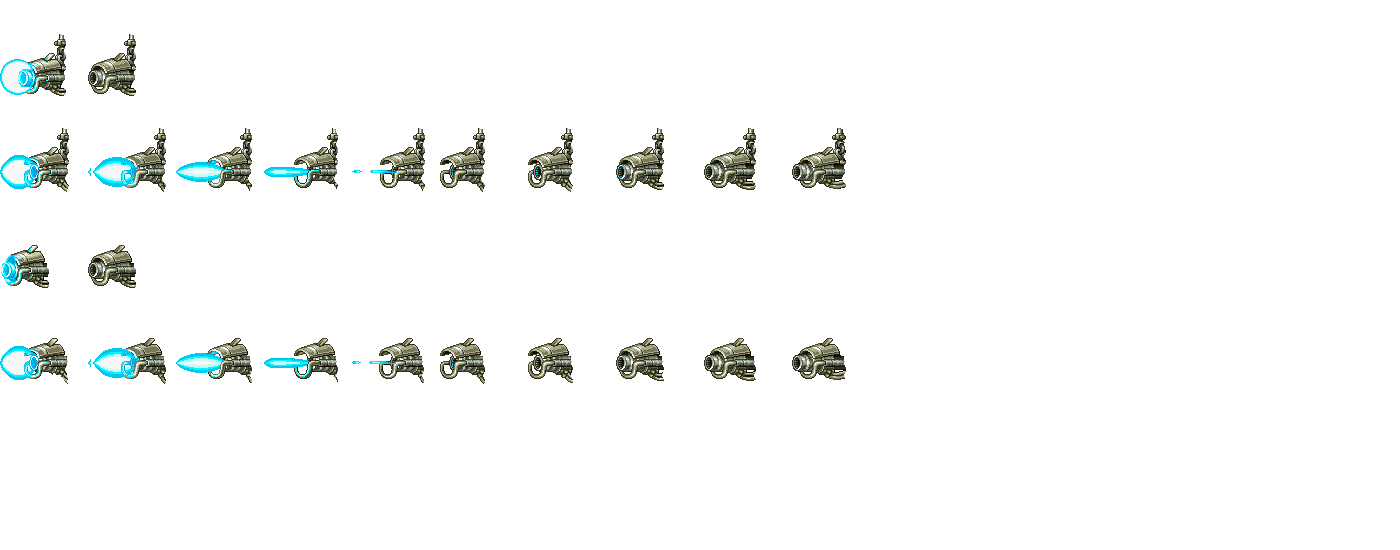
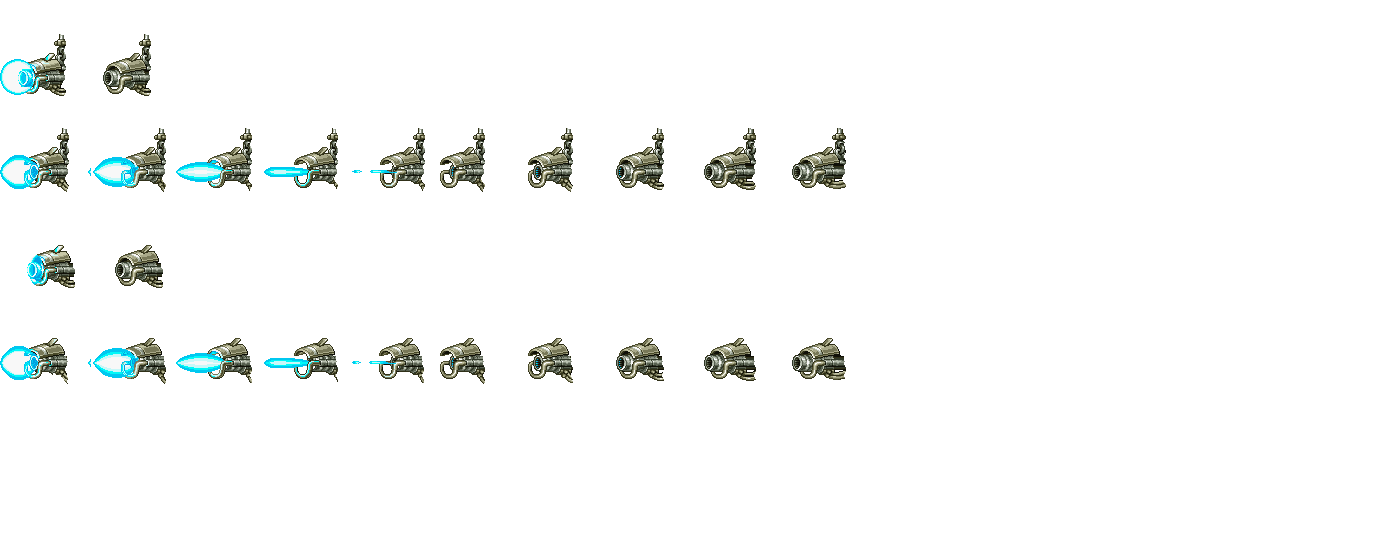
e

Changed region(s): [[0.0, 0.4327, 0.1229, 0.5255], [0.0614, 0.0618, 0.1229, 0.1855]]

diff --git a/Solution/Project1/Boss.cpp b/Solution/Project1/Boss.cpp
@@ -16,6 +16,11 @@ void Boss::Init()
     UnloadImage(imgFlash);
     SetTextureFilter(flashSheet, TEXTURE_FILTER_POINT);
 
+    Image imgLaser = LoadImage("Graphics/boss/laser88x96.png");
+    laserSheet = LoadTextureFromImage(imgLaser);
+    UnloadImage(imgLaser);
+    SetTextureFilter(laserSheet, TEXTURE_FILTER_POINT);
+
     cannonFrame = 0;
     cannonGoingUp = true;
     cannonFrameTimer = 0.0f;
@@ -47,8 +52,17 @@ void Boss::Update(float playerX)
         }
     }
 
-    UpdatePlasma(GetFrameTime());
-    UpdateCannon(GetFrameTime());
+    // Activar fase 2
+    if (!phase2 && !phase2Pending && health <= 5)
+        phase2Pending = true; //cambiar a 100
+
+    if (phase2)
+        UpdateLaser(GetFrameTime());
+    else
+        UpdateCannon(GetFrameTime());
+
+    if (!phase2)
+        UpdatePlasma(GetFrameTime());
 }
 
 void Boss::UpdateCannon(float dt)
@@ -57,7 +71,6 @@ void Boss::UpdateCannon(float dt)
 
     switch (cannonState)
     {
-        // ── MOVING ───────────────────────────────────────────────
     case CannonState::MOVING:
         flashActive = false;
         if (cannonFrameTimer < cannonFrameDelay) return;
@@ -67,8 +80,18 @@ void Boss::UpdateCannon(float dt)
             cannonFrame++;
             if (cannonFrame >= CANNON_FRAMES - 1) {
                 cannonFrame = CANNON_FRAMES - 1;
-                cannonState = CannonState::OPENING_UP;
-                openFrame = 0;
+                if (phase2Pending) {
+                    phase2 = true;
+                    phase2Pending = false;
+                    laserState = LaserState::CHARGING;
+                    laserFrame = 0;
+                    chargeTimer = 0.0f;
+                    laserFrameTimer = 0.0f;
+                }
+                else {
+                    cannonState = CannonState::OPENING_UP;
+                    openFrame = 0;
+                }
                 cannonFrameTimer = 0.0f;
             }
         }
@@ -76,8 +99,18 @@ void Boss::UpdateCannon(float dt)
             cannonFrame--;
             if (cannonFrame <= 0) {
                 cannonFrame = 0;
-                cannonState = CannonState::OPENING_DOWN;
-                openFrame = 0;
+                if (phase2Pending) {
+                    phase2 = true;
+                    phase2Pending = false;
+                    laserState = LaserState::CHARGING;
+                    laserFrame = 0;
+                    chargeTimer = 0.0f;
+                    laserFrameTimer = 0.0f;
+                }
+                else {
+                    cannonState = CannonState::OPENING_DOWN;
+                    openFrame = 0;
+                }
                 cannonFrameTimer = 0.0f;
             }
         }
@@ -101,7 +134,6 @@ void Boss::UpdateCannon(float dt)
         cannonFrameTimer = 0.0f;
         openFrame++;
 
-        // Flash sincronizado: frame 0-5 del disparo = frame 0-5 del flash
         if (openFrame < FLASH_FRAMES) {
             flashActive = true;
             flashFrame = openFrame;
@@ -158,7 +190,6 @@ void Boss::UpdateCannon(float dt)
         cannonFrameTimer = 0.0f;
         openFrame++;
 
-        // Flash sincronizado
         if (openFrame < FLASH_FRAMES) {
             flashActive = true;
             flashFrame = openFrame;
@@ -199,62 +230,135 @@ void Boss::UpdateCannon(float dt)
     }
 }
 
+void Boss::UpdateLaser(float dt)
+{
+    laserFrameTimer += dt;
+
+    switch (laserState)
+    {
+    case LaserState::MOVING:
+        if (laserFrameTimer < cannonFrameDelay) return;
+        laserFrameTimer = 0.0f;
+
+        if (cannonGoingUp) {
+            cannonFrame++;
+            if (cannonFrame >= CANNON_FRAMES - 1) {
+                cannonFrame = CANNON_FRAMES - 1;
+                laserState = LaserState::CHARGING;
+                laserFrame = 0;
+                chargeTimer = 0.0f;
+                laserFrameTimer = 0.0f;
+            }
+        }
+        else {
+            cannonFrame--;
+            if (cannonFrame <= 0) {
+                cannonFrame = 0;
+                laserState = LaserState::CHARGING;
+                laserFrame = 0;
+                chargeTimer = 0.0f;
+                laserFrameTimer = 0.0f;
+            }
+        }
+        break;
+
+    case LaserState::CHARGING:
+        chargeTimer += dt;
+
+        // Alternar entre frame 0 y 1
+        if (laserFrameTimer >= laserFrameDelay) {
+            laserFrameTimer = 0.0f;
+            laserFrame = (laserFrame + 1) % CHARGE_FRAMES;
+        }
+
+        if (chargeTimer >= CHARGE_DURATION) {
+            laserState = LaserState::FIRING;
+            laserFrame = 0;
+            laserTimer = 0.0f;
+            laserFrameTimer = 0.0f;
+        }
+        break;
+
+    case LaserState::FIRING:
+        laserTimer += dt;
+
+        if (laserFrameTimer >= laserFrameDelay) {
+            laserFrameTimer = 0.0f;
+            laserFrame = (laserFrame + 1) % FIRE_FRAMES;
+        }
+
+        if (laserTimer >= LASER_DURATION) {
+            // Terminó — moverse al otro extremo
+            cannonGoingUp = !cannonGoingUp;
+            laserState = LaserState::MOVING;
+            laserFrame = 0;
+            laserFrameTimer = 0.0f;
+        }
+        break;
+    }
+}
+
 void Boss::Draw()
 {
     if (!active) return;
 
-    // ── Cañón ─────────────────────────────────────────────────
-    Rectangle src;
-    switch (cannonState)
-    {
-    case CannonState::OPENING_DOWN:
-    case CannonState::CLOSING_DOWN:
-        src = { openFrame * CANNON_FRAME_W, OPEN_DOWN_ROW_Y,  CANNON_FRAME_W, CANNON_FRAME_H };
-        break;
-    case CannonState::SHOOTING_DOWN:
-        src = { openFrame * CANNON_FRAME_W, SHOOT_DOWN_ROW_Y, CANNON_FRAME_W, CANNON_FRAME_H };
-        break;
-    case CannonState::OPENING_UP:
-    case CannonState::CLOSING_UP:
-        src = { openFrame * CANNON_FRAME_W, OPEN_UP_ROW_Y,    CANNON_FRAME_W, CANNON_FRAME_H };
-        break;
-    case CannonState::SHOOTING_UP:
-        src = { openFrame * CANNON_FRAME_W, SHOOT_UP_ROW_Y,   CANNON_FRAME_W, CANNON_FRAME_H };
-        break;
-    default:
-        src = { cannonFrame * CANNON_FRAME_W, 0.0f, CANNON_FRAME_W, CANNON_FRAME_H };
-        break;
+    if (phase2) {
+        DrawLaser();
     }
-
-    Rectangle dst = { posX, posY, CANNON_FRAME_W * CANNON_SCALE, CANNON_FRAME_H * CANNON_SCALE };
-    Color tint = (isFlashing && hitFlashCount % 2 == 0) ? Color{ 255, 220, 100, 255 } : WHITE;
-    DrawTexturePro(cannonSheet, src, dst, { 0, 0 }, 0.0f, tint);
-
-    // ── Destello ──────────────────────────────────────────────
-    if (flashActive) {
-        Rectangle flashSrc = {
-            flashFrame * FLASH_FRAME_W,
-            FLASH_ROW_Y,
-            FLASH_FRAME_W,
-            FLASH_FRAME_H
-        };
-
-        bool isDown = (cannonState == CannonState::SHOOTING_DOWN);
-
-        float fx, fy;
-        if (isDown) {
-            fx = 16220.0f + 50.0f - (FLASH_FRAME_W * FLASH_SCALE) / 2.0f;  // igual de derecha
-            fy = 285.0f - (FLASH_FRAME_H * FLASH_SCALE) / 2.0f;    // más arriba
-        }
-        else {
-            fx = 16220.0f + 70.0f - (FLASH_FRAME_W * FLASH_SCALE) / 2.0f;  // más a la derecha
-            fy = posY + 30 - (FLASH_FRAME_H * FLASH_SCALE) / 2.0f;               // igual
+    else {
+        // ── Cañón ─────────────────────────────────────────────────
+        Rectangle src;
+        switch (cannonState)
+        {
+        case CannonState::OPENING_DOWN:
+        case CannonState::CLOSING_DOWN:
+            src = { openFrame * CANNON_FRAME_W, OPEN_DOWN_ROW_Y,  CANNON_FRAME_W, CANNON_FRAME_H };
+            break;
+        case CannonState::SHOOTING_DOWN:
+            src = { openFrame * CANNON_FRAME_W, SHOOT_DOWN_ROW_Y, CANNON_FRAME_W, CANNON_FRAME_H };
+            break;
+        case CannonState::OPENING_UP:
+        case CannonState::CLOSING_UP:
+            src = { openFrame * CANNON_FRAME_W, OPEN_UP_ROW_Y,    CANNON_FRAME_W, CANNON_FRAME_H };
+            break;
+        case CannonState::SHOOTING_UP:
+            src = { openFrame * CANNON_FRAME_W, SHOOT_UP_ROW_Y,   CANNON_FRAME_W, CANNON_FRAME_H };
+            break;
+        default:
+            src = { cannonFrame * CANNON_FRAME_W, 0.0f, CANNON_FRAME_W, CANNON_FRAME_H };
+            break;
         }
 
-        Rectangle flashDst = { fx, fy, FLASH_FRAME_W * FLASH_SCALE, FLASH_FRAME_H * FLASH_SCALE };
-        DrawTexturePro(flashSheet, flashSrc, flashDst, { 0, 0 }, 0.0f, WHITE);
-    }
+        Rectangle dst = { posX, posY, CANNON_FRAME_W * CANNON_SCALE, CANNON_FRAME_H * CANNON_SCALE };
+        Color tint = (isFlashing && hitFlashCount % 2 == 0) ? Color{ 255, 220, 100, 255 } : WHITE;
+        DrawTexturePro(cannonSheet, src, dst, { 0, 0 }, 0.0f, tint);
 
+        // ── Destello ──────────────────────────────────────────────
+        if (flashActive) {
+            Rectangle flashSrc = {
+                flashFrame * FLASH_FRAME_W,
+                FLASH_ROW_Y,
+                FLASH_FRAME_W,
+                FLASH_FRAME_H
+            };
+
+            bool isDown = (cannonState == CannonState::SHOOTING_DOWN);
+
+            float fx, fy;
+            if (isDown) {
+                fx = 16220.0f + 50.0f - (FLASH_FRAME_W * FLASH_SCALE) / 2.0f;  // igual de derecha
+                fy = 285.0f - (FLASH_FRAME_H * FLASH_SCALE) / 2.0f;    // más arriba
+            }
+            else {
+                fx = 16220.0f + 70.0f - (FLASH_FRAME_W * FLASH_SCALE) / 2.0f;  // más a la derecha
+                fy = posY + 30 - (FLASH_FRAME_H * FLASH_SCALE) / 2.0f;               // igual
+            }
+
+            Rectangle flashDst = { fx, fy, FLASH_FRAME_W * FLASH_SCALE, FLASH_FRAME_H * FLASH_SCALE };
+            DrawTexturePro(flashSheet, flashSrc, flashDst, { 0, 0 }, 0.0f, WHITE);
+        }
+    }
+    
     DrawPlasma();
 }
 
@@ -332,5 +436,39 @@ void Boss::DrawPlasma() const
         DrawCircleV(plasma[i].pos, plasmaRadius, { 180, 60, 255, 255 });
         DrawCircleLines((int)plasma[i].pos.x, (int)plasma[i].pos.y,
             plasmaRadius, { 255, 180, 255, 255 });
+    }
+}
+
+void Boss::DrawLaser() const
+{
+    if (laserState == LaserState::MOVING) {
+        Rectangle src = { cannonFrame * CANNON_FRAME_W, 0.0f, CANNON_FRAME_W, CANNON_FRAME_H };
+        Rectangle dst = { posX, posY, CANNON_FRAME_W * CANNON_SCALE, CANNON_FRAME_H * CANNON_SCALE };
+        Color tint = (isFlashing && hitFlashCount % 2 == 0) ? Color{ 255,220,100,255 } : WHITE;
+        DrawTexturePro(cannonSheet, src, dst, { 0,0 }, 0.0f, tint);
+        return;
+    }
+
+    float rowY = 0.0f;
+    if (laserState == LaserState::CHARGING)
+        rowY = cannonGoingUp ? CHARGE_UP_ROW_Y : CHARGE_DOWN_ROW_Y;
+    else
+        rowY = cannonGoingUp ? FIRE_UP_ROW_Y : FIRE_DOWN_ROW_Y;
+
+    TraceLog(LOG_INFO, "laserFrame=%d rowY=%.0f cannonGoingUp=%d",
+        laserFrame, rowY, (int)cannonGoingUp);
+
+    Rectangle src = { laserFrame * LASER_FRAME_W, rowY, LASER_FRAME_W, LASER_FRAME_H };
+    Rectangle dst = { posX, posY, LASER_FRAME_W * CANNON_SCALE, LASER_FRAME_H * CANNON_SCALE };
+    Color tint = (isFlashing && hitFlashCount % 2 == 0) ? Color{ 255,220,100,255 } : WHITE;
+    DrawTexturePro(laserSheet, src, dst, { 0,0 }, 0.0f, tint);
+
+    DrawRectangleLinesEx(dst, 2, RED);
+
+    if (laserState == LaserState::FIRING) {
+        float startX = posX;
+        float startY = posY + (LASER_FRAME_H * CANNON_SCALE) / 2.0f;
+        float endX = posX - 2000.0f;
+        DrawLineEx({ startX, startY }, { endX, startY }, 6.0f, { 0, 200, 255, 200 });
     }
 }

diff --git a/Solution/Project1/Boss.hpp b/Solution/Project1/Boss.hpp
@@ -33,7 +33,7 @@ public:
 private:
     // ── Estado general ────────────────────────────────────────
     bool active = false;
-    int  health = 200;
+    int  health = 10; //cambiar luego a 200
 
     // ── Posición ──────────────────────────────────────────────
     float posX = 16130.0f;
@@ -118,4 +118,39 @@ private:
     static constexpr float FLASH_FRAME_H = 64.0f;
     static constexpr float FLASH_ROW_Y = 0.0f;
     static constexpr float FLASH_SCALE = 4.0f;
+
+    // ── Fase 2 ────────────────────────────────────────────────
+    bool phase2 = false;
+    bool phase2Pending = false;
+
+    enum class LaserState {
+        MOVING,
+        CHARGING,   // fila 0 o 3 — 2 sprites alternando
+        FIRING,     // fila 1 o 4 — 10 sprites + laser 1s
+    };
+
+    LaserState    laserState = LaserState::MOVING;
+    int           laserFrame = 0;
+    float         laserFrameTimer = 0.0f;
+    float         laserFrameDelay = 0.1f;
+    float         laserTimer = 0.0f;
+    static constexpr float LASER_DURATION = 1.0f;
+
+    Texture2D laserSheet = { 0 };
+    static constexpr float LASER_FRAME_W = 88.0f;
+    static constexpr float LASER_FRAME_H = 96.0f;
+    static constexpr int   CHARGE_FRAMES = 2;
+    static constexpr int   FIRE_FRAMES = 10;
+
+    static constexpr float CHARGE_DOWN_ROW_Y = 0 * 96.0f; 
+    static constexpr float FIRE_DOWN_ROW_Y = 1 * 96.0f;  
+    static constexpr float CHARGE_UP_ROW_Y = 2 * 96.0f;  
+    static constexpr float FIRE_UP_ROW_Y = 3 * 96.0f; 
+
+    static constexpr float CHARGE_DURATION = 2.0f;  // segundos cargando
+    float chargeTimer = 0.0f;
+
+    void UpdateLaser(float dt);
+    void DrawLaser() const;
+
 };
